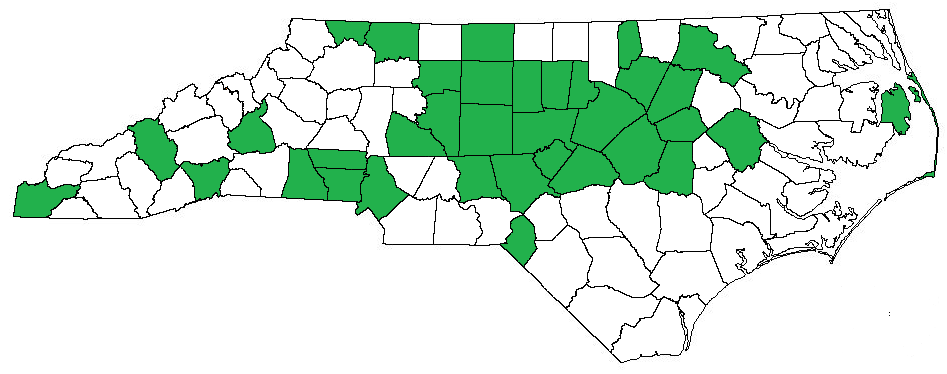
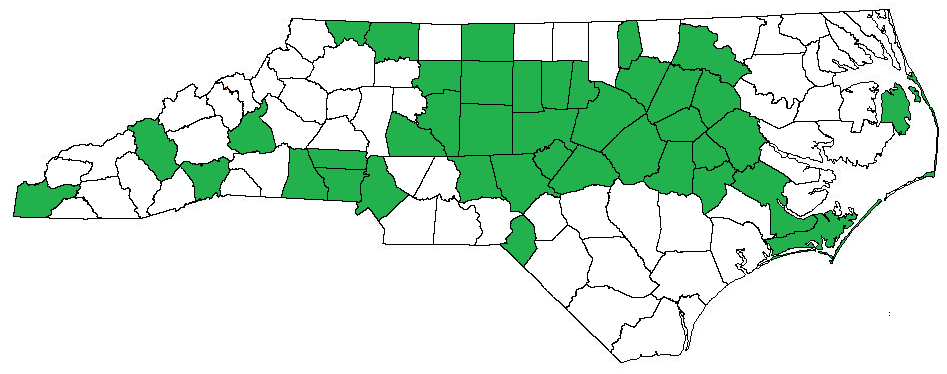
3/14/2022 hiking and bbq

Changed region(s): [[0.7043, 0.1765, 0.9187, 0.6765]]

diff --git a/bbq/index.html b/bbq/index.html
@@ -52,10 +52,10 @@ Both use vinegar as their base for the sauce, often with red pepper (among other
 <br>
 <center>
 	<h2>Current County Counter</h2>
-	<h3><span style="color:red">35</span> / 100</h3>
-	<h3>51 different in-state BBQ joints</h3>
+	<h3><span style="color:red">40</span> / 100</h3>
+	<h3>56 different in-state BBQ joints</h3>
 	<h3>1 annual BBQ event</h3>
-	<p>(last updated 3/5/2022)</p>
+	<p>(last updated 3/13/2022)</p>
 </center>
 <br>
 
@@ -68,6 +68,11 @@ Both use vinegar as their base for the sauce, often with red pepper (among other
 <p><b>Alleghany County</b></p>
 <ul>
 	<li>Motley's BBQ - Laurel Springs - 6/23/2021 - <a href="https://drive.google.com/drive/folders/1Yze-9CFSAmc8RgDYN24iREB9CJoTW_ic?usp=sharing">pictures</a></li>
+</ul>
+<br>
+<p><b>Carteret County</b></p>
+<ul>
+	<li>Big Oak Drive-In &amp BBQ - Salter Path - 3/13/2022 - <a href="https://drive.google.com/drive/folders/1X7qhgE98Cg2ulPoxB4nKGihiiJSNsIwr?usp=sharing">pictures</a></li>
 </ul>
 <br>
 <p><b>Chatham County</b></p>
@@ -83,6 +88,11 @@ Both use vinegar as their base for the sauce, often with red pepper (among other
 <p><b>Cleveland County</b></p>
 <ul>
 	<li>Red Bridge's BBQ - Shelby - 12/14/2019 and 9/9/2021 - <i><span class="ncbsbbq">NCBS BBQ Trail</span></i>; <i><span class="ncbsbbq">True 'Cue NC</span></i> - <a href="https://drive.google.com/drive/folders/1fdt6DO0K_ac3eLrVys1zf1nBSkXfNOrk?usp=sharing">pictures</a></li>
+</ul>
+<br>
+<p><b>Craven County</b></p>
+<ul>
+	<li>Friday's 1890 Seafood &amp BBQ - New Bern - 3/12/2022 - <a href="https://drive.google.com/drive/folders/1K9otDx6Of5XAThIlyIxXhWTyRs3uBtSj?usp=sharing">pictures</a></li>
 </ul>
 <br>
 <p><b>Dare County</b></p>
@@ -109,6 +119,11 @@ Both use vinegar as their base for the sauce, often with red pepper (among other
 	<li>Real Q (<i>formerly "Little Richard's</i>) - Winston-Salem - 12/14/2019 - <i><span class="ncbsbbq">NCBS BBQ Trail</span></i>; <i><span class="ncbsbbq">True 'Cue NC</span></i></li>
 </ul>
 <br>
+<p><b>Edgecombe County</b></p>
+<ul>
+	<li>Abrams Bar-B-Q &amp Seafood - Pinetops - 3/13/2022 - <a href="https://drive.google.com/drive/folders/1eLGFSUQbaopG0-ZXNQaOxrGa1O6jJaO3?usp=sharing">pictures</a></li>
+</ul>
+<br>
 <p><b>Franklin County</b></p>
 <ul>
 	<li>Remington Grill Burgers &amp BBQ - Louisburg - 2/18/2022 - <a href="https://drive.google.com/drive/folders/1q1r94bf63DbiipJPD-FXFZxE0eLUpipz?usp=sharing">pictures</a></li>
@@ -118,6 +133,11 @@ Both use vinegar as their base for the sauce, often with red pepper (among other
 <ul>
 	<li>Kyle Fletcher's BBQ - Gastonia - 6/5/2018 - <i><span class="ncbsbbq">True 'Cue NC</span></i></li>
 	<li>R.O.'s BBQ - Gastonia - 5/31/2018, 6/12/2018, and 11/6/2021</li>
+</ul>
+<br>
+<p><b>Greene County</b></p>
+<ul>
+	<li>Morris Barbecue - Hookerton - 3/12/2022 - <a href="https://drive.google.com/drive/folders/1c7y-g820JFGYL8pftmCrajPfK0b_S5jR?usp=sharing">pictures</a></li>
 </ul>
 <br>
 <p><b>Guilford County</b></p>
@@ -154,6 +174,11 @@ Both use vinegar as their base for the sauce, often with red pepper (among other
 <p><b>Lee County</b></p>
 <ul>
 	<li>Stubbs and Sons BBQ - Sanford - 11/30/2020</li>
+</ul>
+<br>
+<p><b>Lenoir County</b></p>
+<ul>
+	<li>King's Restaurant - Kinston (405 New Bern Rd location) - 3/11/2022 - <a href="https://drive.google.com/drive/folders/1LRU7ecVuncsaTMRFEiJhzNeSL1QhCR07?usp=sharing">pictures</a></li>
 </ul>
 <br>
 <p><b>Lincoln County</b></p>
@@ -344,13 +369,15 @@ Both use vinegar as their base for the sauce, often with red pepper (among other
 
 <p>I went to three restaurants in three days on the first weekend of February 2022, knocking out three counties in the process.  While Allen &amp Son's Barbecue in Pittsboro (not to be confused with Allen &amp Son Barbecue of Chapel Hill, which closed December 2018) had some nice, wood-fired 'cue, my favorite stop of the weekend was McArthur's Restaurant, in Laurinburg.  After the original dine-in restaurant burnt down in September 2019, the "General" Colin McArthur re-opened his restaurant in April 2020 as a drive-up only restaurant, and has remained that way ever since.  Open only three days a week, the restaurant is a bit of an oddity in the traditional barbecue scene in that it is open on Sunday.  When we arrived, the General himself was sitting outside on a chair, taking phone orders, and talking to patrons waiting on their food.  He was very friendly, and almost insisted that my brother and I get some of their homemade banana pudding, made, he emphasized, with real bananas.  The barbecue was moist and delicious, and finely chopped in the traditional eastern style, but the most unique thing about the meal was his interesting cornbread, which looked akin to a fried hoecake of sorts. He explained to me that it wasn't really cornbread, and that they just called it that; it was actually half house-made cornbread mix, half-hushpuppy mix, pan-fried in a dollop of fatback.  It was thoroughly delicious.  While in the area, I checked out the historic <a href="../hiking/non-parks/scotland-county/scotland-county.html">John Blue House</a> and surrounding site, as well as the Mill Prong House.</p>
 
+<p>After going about a month without a major barbecue expedition, I got my fix in during the second weekend of March.  Admittedly a bad time to go on a roadtrip thanks to gas prices going above $4/gallon for the first time in my driving career, I didn't mind all that much--I'd worked a ton of overtime the week before.  My girlfriend and I drove southwest, mostly down US 70, towards New Bern.  Along the way we stopped in Goldsboro for the <a href="../hiking/non-parks/goldsboro-bridge/goldsboro-bridge.html">Goldsborough Bridge Battlefield Historic Site</a>.  After walking around the grounds, we continued down US 70 to Kinston and King's Restaurant, where we got their famous Pig-In-a Puppy hushpuppy-'cue sandwhich, as well as some pork the more traditional way.  After that, we continued to New Bern; we camped for the night at Flanners Beach Campground.</p>
 
-<!-- 
+<p>The next morning started out with fair weather, but forecasts soon proved to be accurate, with just about the entire state being hit with a torrential downpour of rain.  Thankfully, I had planned on this, and attempted to organize several indoors activities til the rain abated.  Unfortunately, I did not plan the details to that all that well; a trip to Yoder's Dutch Pantry, in Epworth, resulted in us getting a (massive) cinammon roll to go after the wait for dine-in breakfast was estimated to be 1-1/2-to-2 hours -- thankfully, the roll was delicious.  From there, we continued down NC 118 to Grifton, where I had hoped to visit the Grifton Museum; unfortunately, it was only open either by appointment, or on the 1st and 3rd Sunday of the month.  Since I had done neither, we decided to reverse the order of my plans a bit and head to back to Kinston.</p>
 
-<p>A final point of explanation lies in just how many times I've been to a select few restaurants.  The most obvious outlier is Stameys BBQ in Greensboro.  During my time at NC State, I was in both the marching band and the pep band, and traveled to several of the ACC tournaments for both men's and women's basketball.  It just so happened that nearly every year I was in band, one (or both) of the two tournaments were in Greensboro, in the Greensboro Colliseum.  Conveniently, Stameys is right across the street; it's almost too perfect to be a coincidence.</p>
+<p>From there, things shaped up: we just so happened to visit the CSS <i>Neuse</i> Museum on free entrance day, and followed that up with a successful visit to a thrift store for local cassettes and CDs to listen to on the drive.  After a while, we wended our way north, towards Hookerton and Morris Barbecue.  The food was phenomenal, and it's a shame their store isn't open for more than just a few hours ever week.  The staff was incredibly friendly, and relayed to me some of the history of the store: the original owner, Willie "Pop" Morris, had worked a series of odd jobs, primarily as a house painter, but was short on money -- in fact, his shoes were falling apart, and were being held together with hog rungs.  He had been gifted two pigs earlier, and around that time they'd become big enough to barbecue and sell, so he did.  He carried the meat to town, and sold it mobile in a mule-drawn truck.  It was enough to get him a new pair of shoes, and a new outlook on what he should be doing with his services!  He continued selling it by mule until eventually the restaurant was built on the same location as he had started cooking at, in 1954, and it's been there ever since, always on Saturdays only.</p>
 
--->
+<p>With the rain improving, we headed back towards New Bern, where we did one of the walking tours (<a href="https://visitnewbern.com/bear-town-bears-details/">the bears one</a>), then had dinner at Friday's 1890 Seafood &amp Bar-B-Q.  We then camped back at Flanners Beach, and woke up the next morning to some weather much more fitting for hiking.  We went to Croatan National Forest and down Catfish Lake Road, one of the longest state-maintained gravel roads in NC.  Off this road is the titular <a href="../hiking/croatan/catfish-lake/catfish-lake.html">Catfish Lake</a>, which could not have looked more peaceful.  Plus, it was a good excuse to take my gas-guzzling 4Runner offroading.  Afterwards, we swung south down NC 58 to <a href="../hiking/croatan/weetock/weetock.html">Weetock Trail</a>.
 
+<p>Continuing down NC 58, we drove northeast along the Crystal Coast, past Emeral Isle, to Salter Path, home of Big Oak Drive-In &amp BBQ.  I bought and ate way too much food, but enjoyed it all.  After continuing northeast past Atlantic Beach, we visited <a href="../hiking/fort-macon/fort-macon.html">Fort Macon State Park</a>, where we toured the historic fort and casemates and walked a bit on the beach.  After that, we headed back to Raleigh, but not before swinging north to Pinetops for a stop at Abrams BBQ.  My first time visiting an Abrams location, I'll admit that my reservations about the "chain" were unwarranted -- the food was good and well-priced.</p>
 
 
 <br>

diff --git a/hiking/croatan/catfish-lake/catfish-lake.html b/hiking/croatan/catfish-lake/catfish-lake.html
@@ -1,0 +1,88 @@
+<!DOCTYPE html>
+<html>
+
+
+<head>
+	<link href="../../style.css" rel="stylesheet" type="text/css" />
+	<link rel="icon" type="image/png" href="../../icon.png">
+	<title>Catfish Lake - Croatan National Forest</title>
+</head>
+
+<center>
+	<h2>Catfish Lake - Croatan National Forest</h2>
+</center>
+
+<p>I did this hike and drive on Sunday, March 13th, 2022 with my girlfriend.</p>
+
+<p>This scenic pond is located off of Catfish Lake Rd, a long gravel road in Croatan National Forest.  The lake itself is off of a secondary road, Catfish Lake Farm Road.  There are no signs posted, so know where to turn beforehand if you plan on going out this way.  The GPS will take you there, but if you miss a turn, it will lead you astray -- most of the secondary roads it'll try to get you to turn on are blocked off with both gates and large mounds of dirt.</p>
+
+<p>By my count, this is the third longest gravel road (2nd longest continuously gravel road) in the state of North Carolina, following Edgemont Rd/NC 90 (17.2 miles, discontinuous) and Old NC 105 (14.7 miles), clocking in at 12.6 miles long.  It's easily the longest state-owned gravel road in eastern North Carolina.</p>
+
+<p>First, a little introduction about the route: Catfish Lake Road (FS1100 and FS1105) is a secondary road which Maysville and the Havelock/Cherry Point military installation.  The only road which directly connects the two, it saves drives about 25 miles and 20 minutes of driving.  Unfortunately, about 12-1/2 miles of the drive are gravel, which has led to a number of accidents and deaths.  After a fatal accident in 2010, military personnel were forbidden from driving on the road, and a change.org petition <a href="https://www.change.org/p/craven-county-nc-close-catfish-lake-road-in-croatian-national-forest-for-good">calling for its permanent closure</a> garnered just over 2,500 signatures.  The dangerous part of the road seems to be its width and relatively steep shoulders, which have swamps and trees on the sides for several portions; the width gives motorists a false sense of security, causing them to speed and then lose control.  Once they lose control of their car, the lack of guard rails or any true shoulder makes the chance of serious accident more likely.</p>
+
+<p>Thankfully, the road was well-maintained while I was there.  Despite claims online of the road being riddled with potholes and washouts, Catfish Lake Road itself was in almost immaculate shape for a gravel road.</p>
+
+<p>A disclaimer: if you listen to the videos with sound on, you'll hear some music.  It's not always good.  At the start of a trip, I like to go to a thrift store and buy local CDs or cassettes and listen to them over the course of the trip.  The one requirement to buying the music is that it not be available online.  As a result, I've amassed quite an impressive collection of local gospel music, some of which you can hear on during the this trip -- I bought 8 cassettes and 1 CD and all but one were gospel.  The music usually ranges from 'alright' to putrid, but I enjoy doing it.  You've been warned.</p>
+
+
+
+
+<center><image src="https://drive.google.com/uc?export=view&id=1eRWdtfJLXzeA2HBSH6vPtcVOKwzGnbp7" width="800"></img></center><br>
+<center><video width="800" height="800" controls>
+	  <source src="https://drive.google.com/uc?export=view&id=1NWo9DPR4w6lv-Nx4kuUiqT8VjtcmQw3H" type="video/mp4">
+	Your browser does not support the video tag.
+</video></center><br>
+<center><image src="https://drive.google.com/uc?export=view&id=1dnF6xVfKbUe3ja8WR1YBwGrMpvWQEZlm" width="800"></img></center><br>
+<center><video width="800" height="800" controls>
+	  <source src="https://drive.google.com/uc?export=view&id=1zzq0a4Oh3lO-s_j6Xi4tVsUVROQp3YXO" type="video/mp4">
+	Your browser does not support the video tag.
+</video></center><br>
+
+<p>While the main road was pretty well-maintained, the same can't be said for the roads which branch off of it.  After missing the original main turn (I couldn't use my usual car phone mount because the gravel vibrated it off repeatedly), Google Maps had me turn onto FS152 (Black Swamp Rd), where we encountered the first serious obstacle.  This road was much narrower, though, and felt more like a backcountry gravel road should -- to me, at least.</p>
+
+<center><video width="800" height="800" controls>
+	  <source src="https://drive.google.com/uc?export=view&id=1rk-25iyBDYU3h4uQ2ENajpuXW0chtS03" type="video/mp4">
+	Your browser does not support the video tag.
+</video></center><br>
+<center><video width="800" height="800" controls>
+	  <source src="https://drive.google.com/uc?export=view&id=1Ou5oDzjmpgtHiRJ6vVJS7dflJrERb_SX" type="video/mp4">
+	Your browser does not support the video tag.
+</video></center><br>
+<center><video width="800" height="800" controls>
+	  <source src="https://drive.google.com/uc?export=view&id=1W9HdFdvszKfHmA6ozdKXjPfD4PpE2gvi" type="video/mp4">
+	Your browser does not support the video tag.
+</video></center><br>
+
+<p>After turning around and going the right way, we took FS158 (Catfish Lake Farm Rd) to finally visit the lake.  In hindsight, I really wish I'd brought a boat and some fishing rods along.  We had the lake to ourselves; it was really peaceful and beautiful.</p>
+
+<center><image src="https://drive.google.com/uc?export=view&id=19fNuPnz0me5pUSfV9TL165sXLga9IldQ" width="800"></img></center><br>
+<center><image src="https://drive.google.com/uc?export=view&id=1-JutfvpIqeS5PE1C1Tf69iJPnu6PvVZt" width="800"></img></center><br>
+<center><image src="https://drive.google.com/uc?export=view&id=1TGtUaOJA2L3Ty2Vb1LHnvRuiUngnNeH7" width="800"></img></center><br>
+<center><image src="https://drive.google.com/uc?export=view&id=1k5s3zpqRPvPZEAnGn48k1PMivTUbQc7J" width="800"></img></center><br>
+<center><image src="https://drive.google.com/uc?export=view&id=1C0RL9WeeuiAEN69h7hbFJfjP-ebwNsGn" width="800"></img></center><br>
+
+<p>FS152 offered some more rough offroading; the worst area was around the boat launch -- you'll be able to recognize it in the videos.  It also seems to serve as the location of some truly hellacious bonfires; a massive pile of coals -- probably 2 or 3 feet tall -- stood as a testament to that.</p>
+
+<center><video width="800" height="800" controls>
+	  <source src="https://drive.google.com/uc?export=view&id=1rOtLlHprknG1Wwd10dlQHkUzAwS27E0p" type="video/mp4">
+	Your browser does not support the video tag.
+</video></center><br>
+<center><video width="800" height="800" controls>
+	  <source src="https://drive.google.com/uc?export=view&id=1t7QbSZ2bnN0QycWxV0C0xsdRhUOiwqoI" type="video/mp4">
+	Your browser does not support the video tag.
+</video></center><br>
+<center><video width="800" height="800" controls>
+	  <source src="https://drive.google.com/uc?export=view&id=1DvUu5CjV3Fkb9Jb5KVAKgeEgAH7Jdd7-" type="video/mp4">
+	Your browser does not support the video tag.
+</video></center><br>
+
+<p>After visiting the lake, we turned around, continued west, and headed for <a href="../weetock/weetock.html">Weetock Trail</a>.  Along the way, we got a good stretch of road in a more pine-dense area of the forest.  Additionally, the west entrance has a very foreboding and serious sign.</p>
+
+<center><video width="800" height="800" controls>
+	  <source src="https://drive.google.com/uc?export=view&id=1gTxhcul3516jnze0J5D4_1NHQxqq3bZZ" type="video/mp4">
+	Your browser does not support the video tag.
+</video></center><br>
+<center><image src="https://drive.google.com/uc?export=view&id=1bjDchI_42XyVUiOsCXKKbqms2NAaCgG5" width="800"></img></center><br>
+
+
+</html>

diff --git a/hiking/index.html b/hiking/index.html
@@ -67,6 +67,12 @@
 	<li><a href="cherokee-forest/gentry-falls/gentry-falls.html">Gentry Falls</a></li>
 </ul>
 
+<h2>Croatan National Forest &amp Game Land</h2>
+<ul>
+	<li><a href="croatan/catfish-lake/catfish-lake.html">Catfish Lake</a></li>
+	<li><a href="croatan/weetock/weetock.html">Weetock Trail</a></li>
+</ul>
+
 <h2>Doughton Recreation Area</h2>
 <ul>
 	<li><a href="doughton/basin-creek/basin-creek.html">Basin Creek Trail</a> (Caudill Cabin)</li>
@@ -89,6 +95,11 @@
 <h2>Eno River State Park</h2>
 <ul>
 	<li><a href="eno-river/occoneechee-mountain/occoneechee-mountain.html">Occoneechee Mountain State Natural Area</a> *</li>
+</ul>
+
+<h2>Fort Macon State Park</h2>
+<ul>
+	<li><a href="fort-macon/fort-macon.html">Fort Macon State Park</a></li>
 </ul>
 
 <h2>Grayson Highlands State Park (Virginia)</h2>
@@ -212,6 +223,7 @@
 	<li><a href="non-parks/carter-falls/carter-falls.html">Carter Falls</a></li>
 	<li><a href="non-parks/driving/driving.html">Drives around NC</a></li>
 	<li><a href="non-parks/fort-monroe/fort-monroe.html">Fort Monroe (Virginia)</a></li>
+	<li><a href="non-parks/goldsboro-bridge/goldsboro-bridge.html">Goldsborough Bridge Battlefield Historic Site</a></li>
 	<li><a href="non-parks/high-falls/high-falls.html">High Falls Dam</a></li>
 	<li><a href="non-parks/scotland-county/scotland-county.html">John Blue House, Mill Prong House, and Walthour-Moss Preserve</a></li>
 	<li><a href="non-parks/weldon/weldon.html">Portis Gold Mine and Weldon Rockfish</a></li>

diff --git a/hiking/croatan/weetock/weetock.html b/hiking/croatan/weetock/weetock.html
@@ -1,0 +1,24 @@
+<!DOCTYPE html>
+<html>
+
+
+<head>
+	<link href="../../style.css" rel="stylesheet" type="text/css" />
+	<link rel="icon" type="image/png" href="../../icon.png">
+	<title>Weetock Trail- Croatan National Forest</title>
+</head>
+
+<center>
+	<h2>Weetock Trail - Croatan National Forest</h2>
+</center>
+
+<p>I did this hike on Sunday, March 13th, 2022 with my girlfriend.</p>
+
+<p>This hike, located just off of NC 58, is one of a handful of major hiking trails in Croatan National Forest other than the Neusiok Trail.  Long the "little brother" of the two trails, it has recently been receiving the attention it deserves.  I was only about to hike about 3 miles of the trail due to time contraints, but the hike served as a nice break in nature and a great representation of eastern NC's pine forests.</p>
+
+<center><image src="https://drive.google.com/uc?export=view&id=1G61-QXajNzBxxt-7bdedHOZvG83o96pR" width="800"></img></center><br>
+<center><image src="https://drive.google.com/uc?export=view&id=16LnlELcjFmO8jtalKfetBSnqpKmT1hZ1" width="800"></img></center><br>
+<center><image src="https://drive.google.com/uc?export=view&id=1tByaZ3YkRlSFrGbNR77LdRV4sHp-arec" width="800"></img></center><br>
+<center><image src="https://drive.google.com/uc?export=view&id=1VES_Xn0vPEXIOwZEgbWZr0TjI2wgQU6D" width="800"></img></center><br>
+
+</html>

diff --git a/hiking/fort-macon/fort-macon.html b/hiking/fort-macon/fort-macon.html
@@ -1,0 +1,25 @@
+<!DOCTYPE html>
+<html>
+
+
+<head>
+	<link href="../style.css" rel="stylesheet" type="text/css" />
+	<link rel="icon" type="image/png" href="../../icon.png">
+	<title>Fort Macon State Park</title>
+</head>
+
+<center>
+	<h2>Fort Macon State Park</h2>
+</center>
+
+<p>I explored this area on Sunday, March 13th, 2022 with my girlfriend.</p>
+
+<p>Fort Macon State Park was just the second commisioned state park in North Carolina (following Mount Mitchell), and the first to open.  Since its initial construction in the 1830s, it's seen service in 3 wars: the Civil War, the Spanish-American War, and World War II.</p>
+
+<center><image src="https://drive.google.com/uc?export=view&id=1dqRNNJdft70oU2Puc7r0ChIXbgY2QVXZ" width="800"></img></center><br>
+<center><image src="https://drive.google.com/uc?export=view&id=1iiV6bt7zeupSdD0Izj3Fj-koWyFy9grh" width="800"></img></center><br>
+<center><image src="https://drive.google.com/uc?export=view&id=1dr1-mBzo4AzQlXma_HW7QLAzo_RI4Iii" width="800"></img></center><br>
+<center><image src="https://drive.google.com/uc?export=view&id=1ofSC6jlMOJqa14_7DknutrcksZLoWr45" width="800"></img></center><br>
+
+
+</html>

diff --git a/index.html b/index.html
@@ -11,7 +11,8 @@
 	<h1>Carter's Website</h1>
 </center>
 
-<center><p>= = = = = = = = = = = = = =</p></center>
+<br>
+<hr size="5" noshade="1" width="95%" color="black">
 <br>
 
 <center><h2>Topics</h2>
